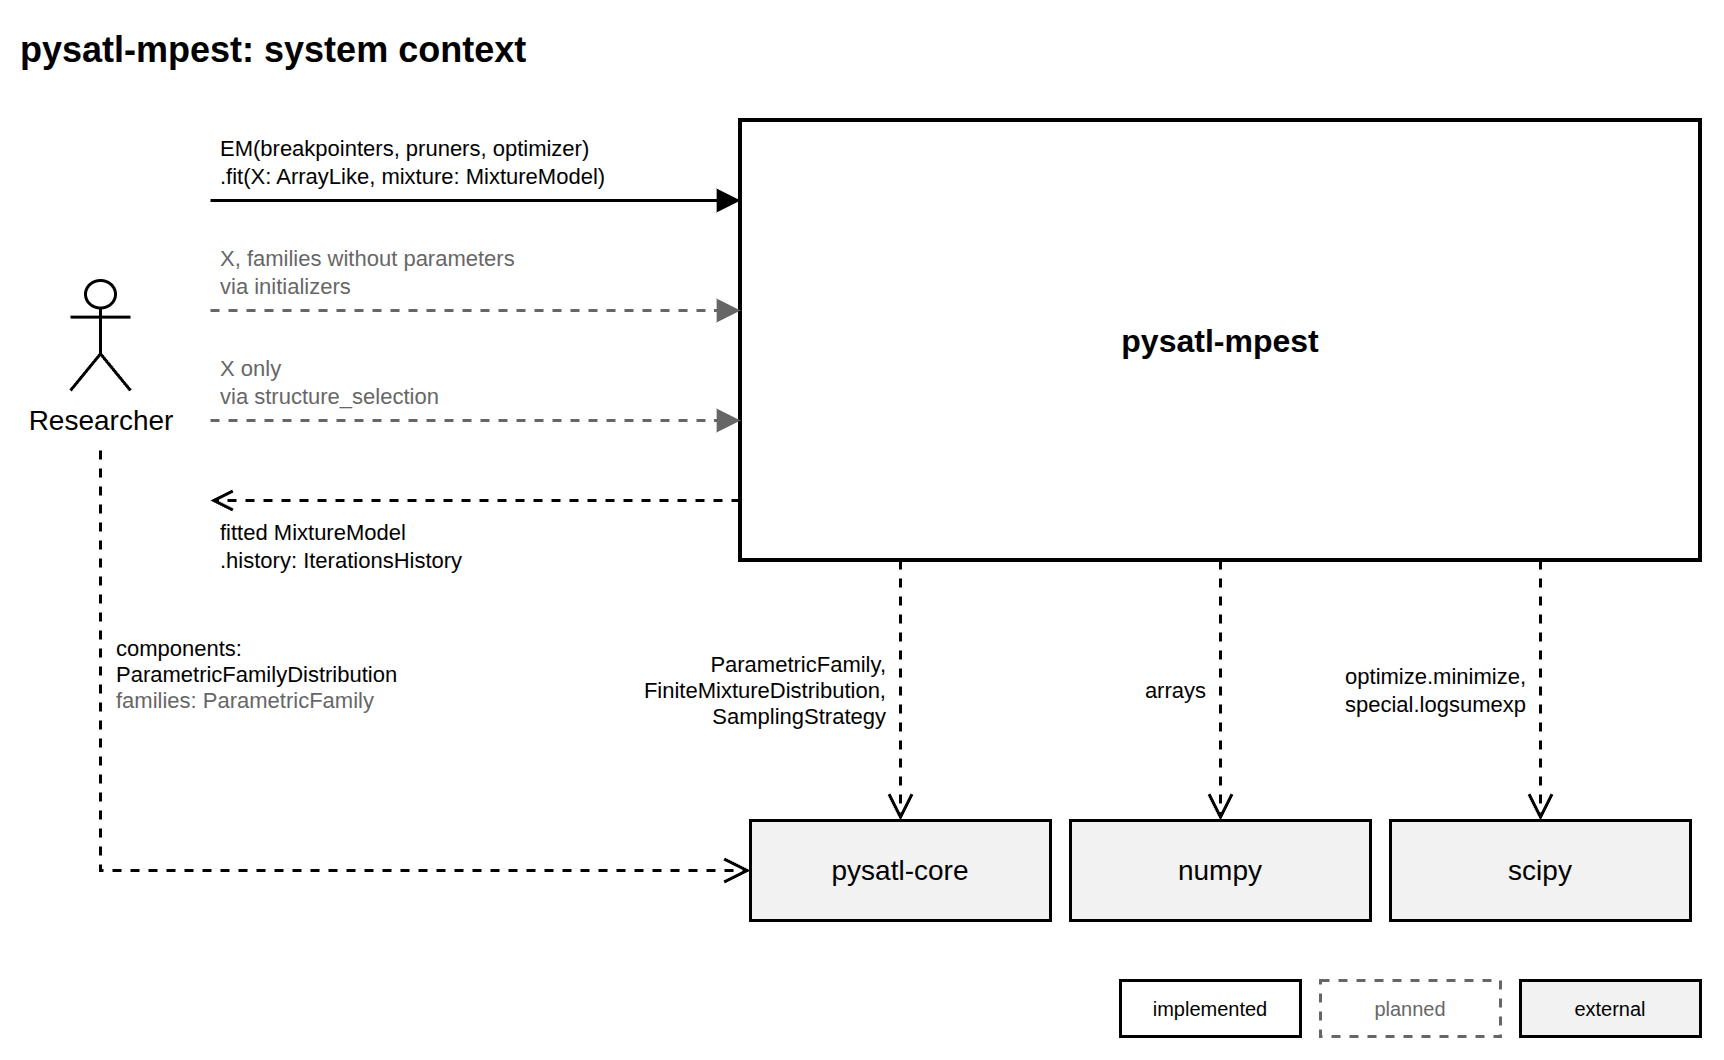
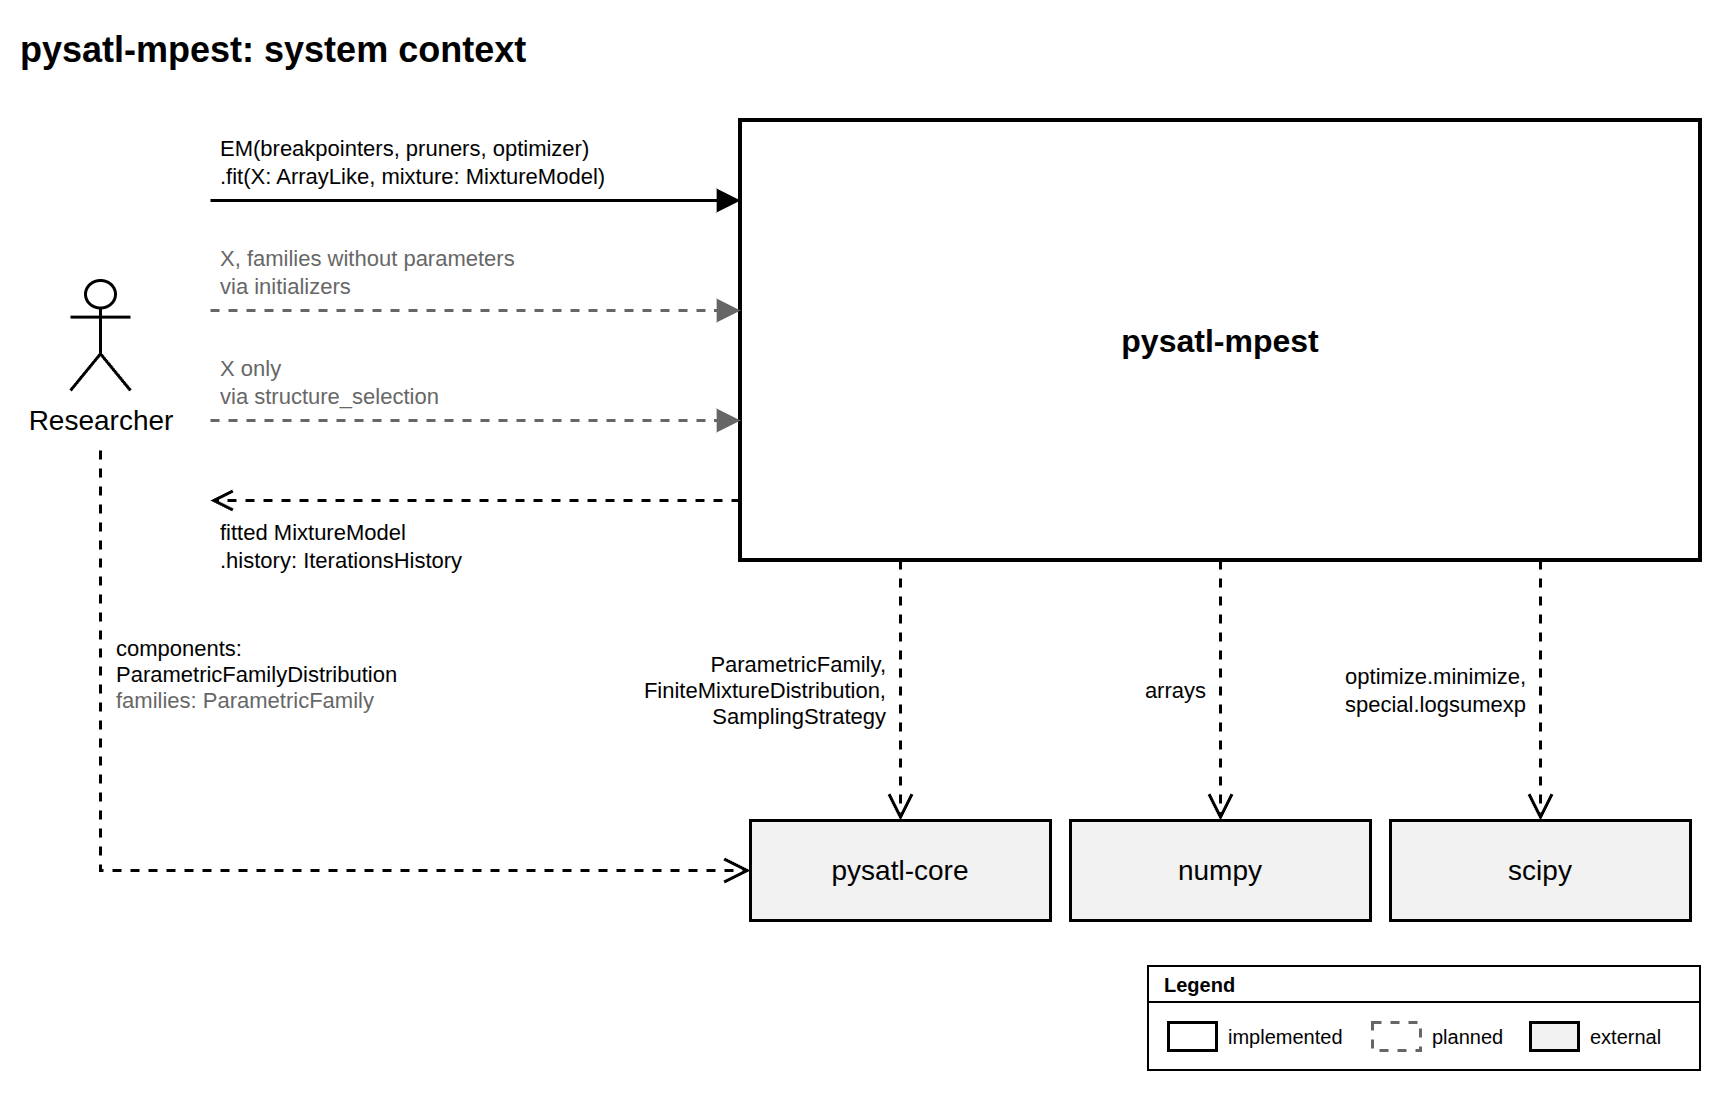
docs: draw diagram legends as a titled panel with swatches

diff --git a/docs_new/README.md b/docs_new/README.md
@@ -14,6 +14,7 @@ poetry run python docs_new/tools/export_diagrams.py   # PNG из всех лис
 - Id листа — kebab-case, имя листа — по-английски. Листы модуля идут в порядке: `overview`, `packages`, страницы подмодулей, затем `seq-*` (sequence). Верхнеуровневые: `full-architecture` (`system-context`), `module-architecture` (`overview`, `detailed`), `usecases`, `sequences` (`seq-*`), `activity`, `algorithms-tree`.
 - **Диаграмма должна помещаться в страницу документации:** ширина листа не больше ~900 px, высота не больше ~650 px (в границах всех блоков, включая заголовок и легенду), шрифт на блоках не мельче 11 pt. Если не влезает, диаграмма делится на несколько листов, а не уменьшается. Размер проверяется по PNG.
 - Без пояснительного текста на диаграммах: только заголовок, имена элементов (как в коде) и подписи связей там, где без них не понять; пояснения идут в md. Статус элемента (planned, external) передаётся стилем и легендой, а не словом в блоке.
+- Легенда — панель `Legend` (draw.io `swimlane`, тонкая рамка, заголовок 10 pt жирный) в нижнем углу листа. Внутри маленькие образцы стиля 24×14 той же формы, что элементы листа (прямоугольник, овал, скруглённый блок), подпись 10 pt справа от образца. Подпись в самом образце не пишется, чтобы легенду нельзя было принять за блоки схемы.
 - Подписи на диаграммах английские. Имена классов и модулей пишутся как в коде.
 - Диаграмма показывает код как он есть. Модули, которых ещё нет в коде, рисуются стилем *planned*: пунктирная рамка `dashed=1`, серые обводка и текст `#666666`, белая заливка.
 - Стиль: чёрно-белый, `Helvetica`; обычный блок — белая заливка и чёрная обводка 1.5; внешняя зависимость (`pysatl-core`, `numpy`, `scipy`) — заливка `#F2F2F2`. Зависимость `A → B` («A использует B») — пунктирная стрелка, наследование — сплошная с полым треугольником. Заголовок листа — текстовая ячейка слева сверху, 18 pt, жирный.
